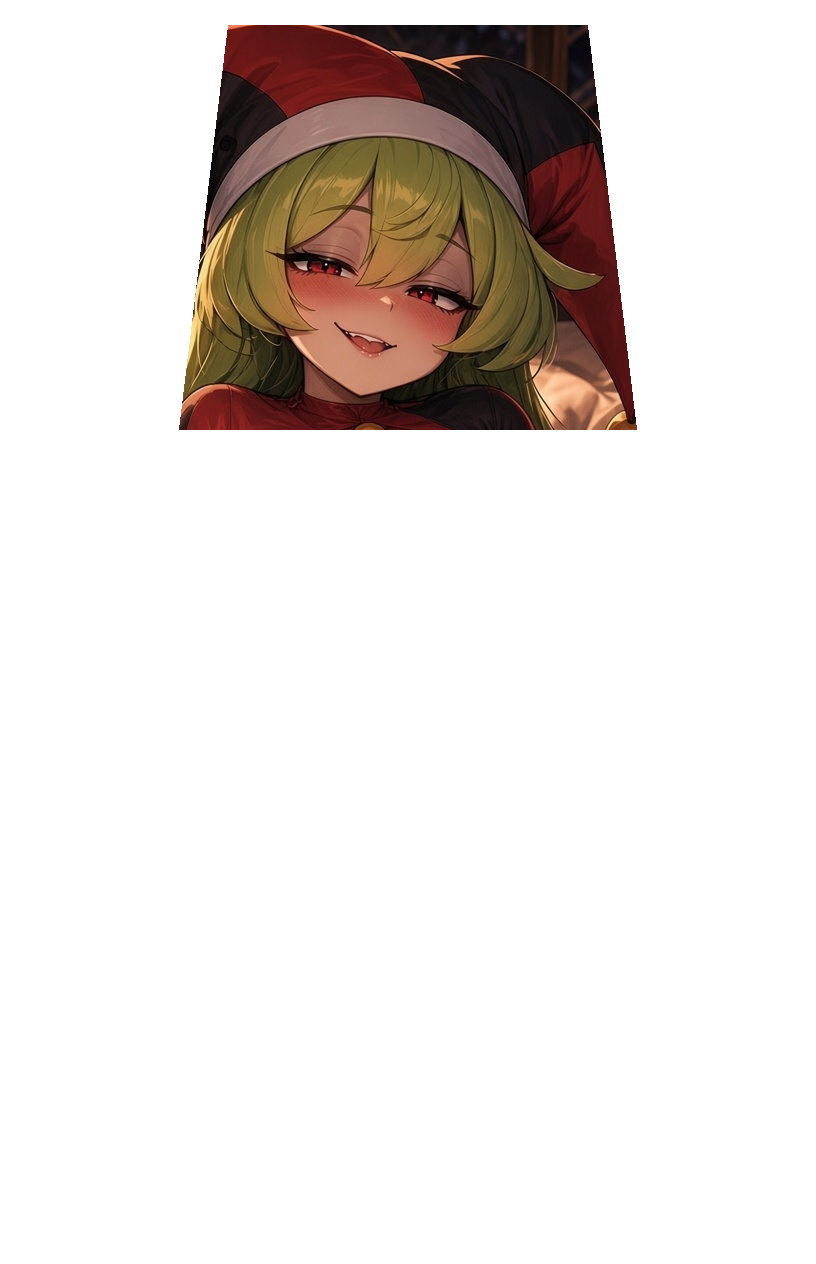
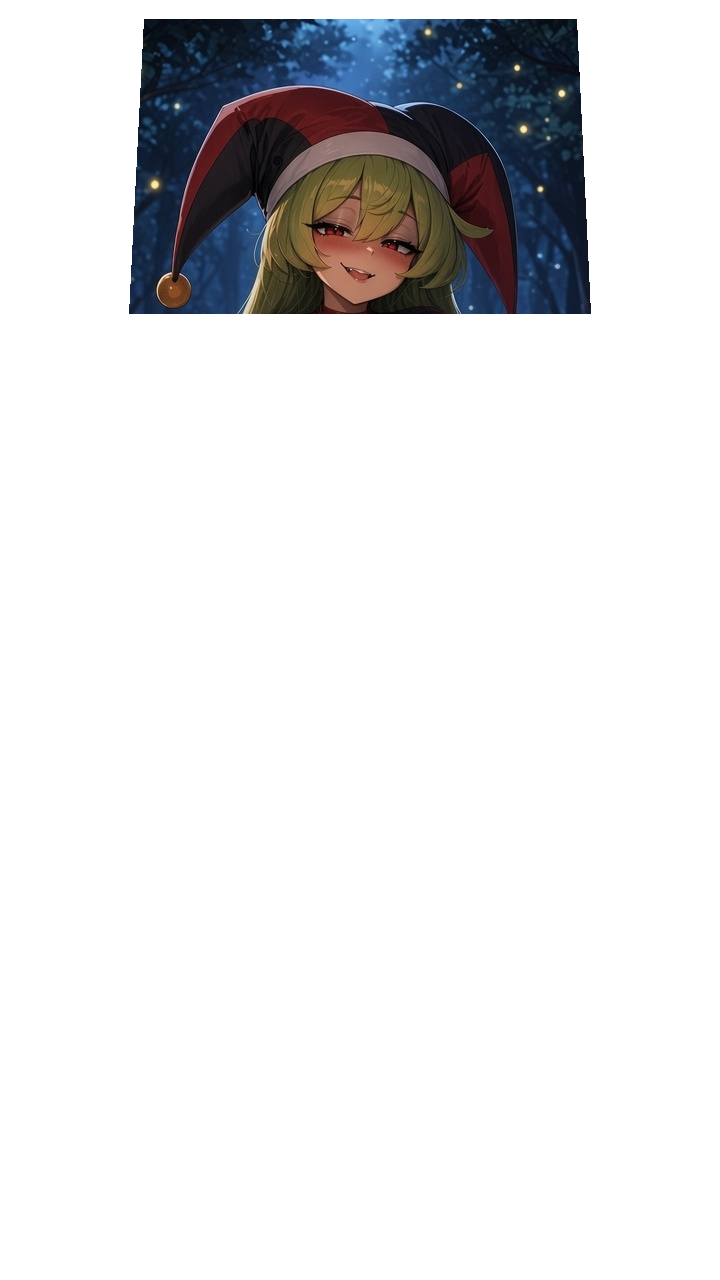
Retarget rig demo to user forest JPG (720x1280)
Replace bedroom source with the uploaded character only; retune
layer masks for standing pose and add multi-polygon background strips.
Remove unused character_rgba asset; refresh idle sway for legs/hair.

Changed region(s): [[0.1833, 0.0, 0.825, 0.3394]]

diff --git a/character-rig-demo/src/main.ts b/character-rig-demo/src/main.ts
@@ -116,10 +116,16 @@ function animate() {
     pivots.torso.scale.set(1 + breath, 1 + breath * 0.6, 1);
   }
   if (pivots.legs) {
-    pivots.legs.rotation.x = Math.sin(t * 1.2) * 0.008;
+    const sway = Math.sin(t * 1.1) * 0.012;
+    pivots.legs.rotation.z = sway;
+    pivots.legs.position.x = sway * 0.02;
   }
   if (pivots.hair_back) {
-    pivots.hair_back.rotation.z = headAngle * 0.35 + Math.sin(t * 0.9) * 0.01;
+    pivots.hair_back.rotation.z = headAngle * 0.4 + Math.sin(t * 0.85) * 0.018;
+    pivots.hair_back.rotation.x = Math.sin(t * 0.7) * 0.006;
+  }
+  if (pivots.torso) {
+    pivots.torso.rotation.z = headAngle * 0.15 + Math.sin(t * 1.4) * 0.004;
   }
 
   const bellTargetL = headAngle * 1.8 + Math.sin(t * 2.3) * 0.05;

diff --git a/character-rig-demo/index.html b/character-rig-demo/index.html
@@ -15,7 +15,7 @@
   </head>
   <body>
     <div id="app"></div>
-    <div id="hint">Fare: hafif parallax · İlk deneme: nefes, baş, çanlar (çömelmiş pozda kol ayrılmaz)</div>
+    <div id="hint">Fare: parallax · Orman sahnesi (senin JPG) · nefes, baş, saç, çanlar, hafif sway</div>
     <script type="module" src="/src/main.ts"></script>
   </body>
 </html>

diff --git a/character-rig-demo/scripts/split_layers.py b/character-rig-demo/scripts/split_layers.py
@@ -11,68 +11,101 @@ from PIL import Image, ImageDraw
 ROOT = Path(__file__).resolve().parents[1]
 SRC = ROOT / "assets" / "source.jpg"
 OUT = ROOT / "assets" / "layers"
-# Normalized polygon points (x, y) in 0..1, tuned for 816x1264 source pose.
-LAYER_DEFS: dict[str, list[tuple[float, float]]] = {
-    # Bed / room (static back)
+
+# Normalized polygons for 720x1280 — forest night, standing full-body (user asset only).
+# Each layer: one polygon or a list of polygons (for disjoint background strips).
+LayerPolys = list[tuple[float, float]] | list[list[tuple[float, float]]]
+
+LAYER_DEFS: dict[str, LayerPolys] = {
+    # Forest + ground (frame strips; character filled by layers above)
     "background": [
-        (0, 0),
-        (1, 0),
-        (1, 0.42),
-        (0.72, 0.38),
-        (0.28, 0.38),
-        (0, 0.42),
+        [(0, 0), (1, 0), (1, 0.1), (0, 0.1)],
+        [(0, 0.56), (1, 0.56), (1, 1), (0, 1)],
+        [(0, 0), (0.16, 0), (0.16, 1), (0, 1)],
+        [(0.84, 0), (1, 0), (1, 1), (0.84, 1)],
     ],
-    # Hair mass behind head & shoulders
+    # Long green hair (behind body; sways with head)
     "hair_back": [
-        (0.18, 0.12),
-        (0.82, 0.12),
-        (0.88, 0.55),
-        (0.12, 0.55),
+        (0.04, 0.08),
+        (0.96, 0.08),
+        (0.99, 0.8),
+        (0.01, 0.8),
     ],
-    # Torso + arms (mostly hidden; moves as one block for breathing)
+    # Torso + arms behind back
     "torso": [
-        (0.22, 0.38),
-        (0.78, 0.38),
-        (0.85, 0.72),
-        (0.15, 0.72),
+        (0.2, 0.23),
+        (0.8, 0.23),
+        (0.84, 0.5),
+        (0.16, 0.5),
     ],
-    # Legs / knees (foreground)
+    # Legs, stockings, feet
     "legs": [
-        (0.12, 0.48),
-        (0.88, 0.48),
-        (0.95, 1),
-        (0.05, 1),
+        (0.14, 0.46),
+        (0.86, 0.46),
+        (0.93, 1),
+        (0.07, 1),
     ],
-    # Head + face (rotates slightly)
+    # Face + hat crown (bells separate)
     "head": [
-        (0.28, 0.02),
-        (0.72, 0.02),
-        (0.78, 0.34),
-        (0.22, 0.34),
+        (0.2, 0.015),
+        (0.8, 0.015),
+        (0.82, 0.245),
+        (0.18, 0.245),
     ],
-    # Jester hat bells (secondary motion)
     "bell_left": [
-        (0.05, 0.02),
-        (0.22, 0.02),
-        (0.24, 0.18),
-        (0.06, 0.2),
+        (0.01, 0.02),
+        (0.19, 0.02),
+        (0.21, 0.19),
+        (0.03, 0.21),
     ],
     "bell_right": [
-        (0.78, 0.02),
-        (0.95, 0.02),
-        (0.94, 0.2),
-        (0.76, 0.18),
+        (0.81, 0.02),
+        (0.99, 0.02),
+        (0.97, 0.21),
+        (0.79, 0.19),
     ],
 }
 
 
-def poly_mask(size: tuple[int, int], points: list[tuple[float, float]]) -> Image.Image:
+def _normalize_polys(points: LayerPolys) -> list[list[tuple[float, float]]]:
+    if not points:
+        return []
+    if isinstance(points[0], tuple):
+        return [points]  # type: ignore[list-item]
+    return points  # type: ignore[return-value]
+
+
+def poly_mask(size: tuple[int, int], polys: list[list[tuple[float, float]]]) -> Image.Image:
     w, h = size
     mask = Image.new("L", size, 0)
     draw = ImageDraw.Draw(mask)
-    px = [(x * w, y * h) for x, y in points]
-    draw.polygon(px, fill=255)
+    for points in polys:
+        px = [(x * w, y * h) for x, y in points]
+        draw.polygon(px, fill=255)
     return mask
+
+
+def polygon_centroid(points: list[tuple[float, float]]) -> tuple[float, float]:
+    cx = sum(p[0] for p in points) / len(points)
+    cy = sum(p[1] for p in points) / len(points)
+    return cx, cy
+
+
+def layer_centroid(polys: list[list[tuple[float, float]]]) -> tuple[float, float]:
+    if len(polys) == 1:
+        return polygon_centroid(polys[0])
+    # Weighted by bounding-box area (rough pivot for multi-strip background)
+    total = 0.0
+    sx = sy = 0.0
+    for points in polys:
+        xs = [p[0] for p in points]
+        ys = [p[1] for p in points]
+        area = (max(xs) - min(xs)) * (max(ys) - min(ys))
+        cx, cy = polygon_centroid(points)
+        total += area
+        sx += cx * area
+        sy += cy * area
+    return sx / total, sy / total
 
 
 def extract_layer(base: Image.Image, mask: Image.Image) -> Image.Image:
@@ -88,36 +121,35 @@ def main() -> None:
 
     base = Image.open(SRC).convert("RGBA")
     OUT.mkdir(parents=True, exist_ok=True)
-    meta: dict[str, dict] = {"size": base.size, "layers": {}}
+    meta: dict[str, dict] = {"size": list(base.size), "layers": {}}
 
-    for name, points in LAYER_DEFS.items():
-        mask = poly_mask(base.size, points)
+    for name, raw in LAYER_DEFS.items():
+        polys = _normalize_polys(raw)
+        mask = poly_mask(base.size, polys)
         layer = extract_layer(base, mask)
         path = OUT / f"{name}.png"
         layer.save(path)
-        # Pivot: polygon centroid (normalized)
-        cx = sum(p[0] for p in points) / len(points)
-        cy = sum(p[1] for p in points) / len(points)
+        cx, cy = layer_centroid(polys)
         meta["layers"][name] = {
             "file": f"layers/{name}.png",
             "pivot": [cx, cy],
             "z": list(LAYER_DEFS.keys()).index(name),
         }
 
-    # Full reference for alignment checks
     base.save(OUT / "_full.png")
 
     preview = base.copy()
     draw = ImageDraw.Draw(preview)
     w, h = base.size
-    for name, points in LAYER_DEFS.items():
-        px = [(x * w, y * h) for x, y in points]
-        draw.polygon(px, outline=(255, 64, 64, 200), width=2)
-        draw.text(px[0], name, fill=(255, 255, 0, 255))
+    for name, raw in LAYER_DEFS.items():
+        for points in _normalize_polys(raw):
+            px = [(x * w, y * h) for x, y in points]
+            draw.polygon(px, outline=(255, 64, 64, 200), width=2)
+            draw.text(px[0], name, fill=(255, 255, 0, 255))
 
     preview.save(OUT / "_mask_preview.png")
     (OUT / "manifest.json").write_text(json.dumps(meta, indent=2), encoding="utf-8")
-    print(f"Wrote {len(LAYER_DEFS)} layers to {OUT}")
+    print(f"Wrote {len(LAYER_DEFS)} layers to {OUT} ({base.size[0]}x{base.size[1]})")
 
 
 if __name__ == "__main__":

diff --git a/character-rig-demo/README.md b/character-rig-demo/README.md
@@ -1,6 +1,8 @@
-# Karakter rig denemesi (PNG → katman + Three.js)
+# Karakter rig denemesi (senin orman JPG → katman + Three.js)
 
-Tek JPG çömelmiş poz için otomatik **kaba poligon maskeleri** ile katmanlara ayırma ve pürüzsüz idle animasyon.
+Tek kaynak görsel: `assets/source.jpg` (720×1280, ayakta orman sahnesi). Başka karakter dosyası kullanılmıyor.
+
+Katmanlar `scripts/split_layers.py` içindeki normalize poligon maskeleriyle üretilir.
 
 ## Komutlar
 
@@ -9,14 +11,20 @@ npm install
 npm run dev
 ```
 
-Katmanları yeniden üretmek (maskeleri `scripts/split_layers.py` içinde düzenle):
+Maskeleri güncelledikten sonra:
 
 ```bash
 python3 scripts/split_layers.py
 ```
 
-## Sınırlar
+Önizleme: `assets/layers/_mask_preview.png` (kırmızı çerçeveler).
 
-Bu pozda dizler gövdeyi kapattığı için **kol kaldırma** ayrı parça olarak yapılamaz; boşluk kalır. İlk deneme: nefes, baş, saç, çanlar, kamera parallax.
+## Animasyon (şimdilik)
 
-Daha iyi kesim için Photoshop’ta parçalı PNG verip aynı `manifest.json` yapısına koyabilirsin.
+- Nefes (gövde scale), baş spring + mouse parallax
+- Saç ve çanlar overlap / spring
+- Hafif bacak sway (ayakta poz)
+
+## Kol kaldırma
+
+Bu pozda kollar gövdenin arkasında; ayrı kol parçası yok. Kol denemesi için ya ön/yan pozlu görsel ya da Photoshop’ta `arm_upper` / `arm_lower` PNG’leri gerekir.
